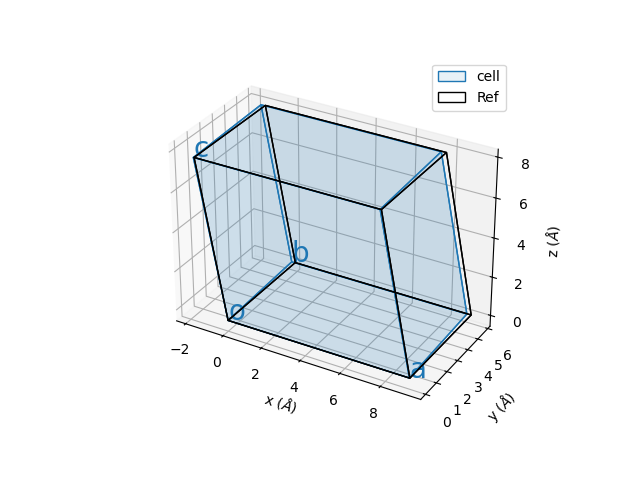
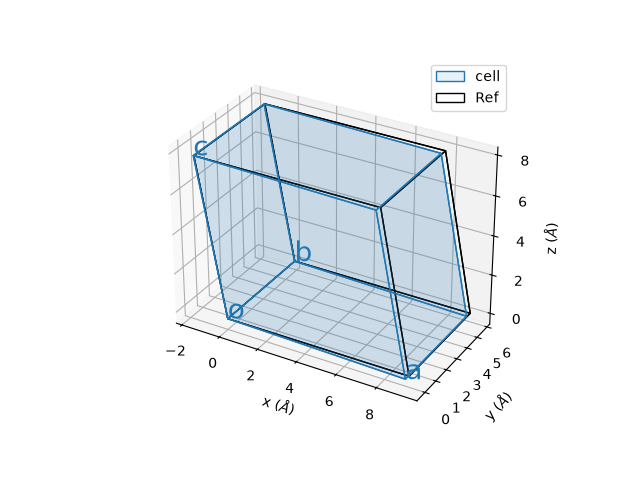
Document examples in detail and fix peak plot grid
- Add a key concepts section and detailed walkthroughs of examples 0-3 to README
- Regenerate example 1 and 2 figures from the current scripts
- Fix missing grid lines on wide peak plots with newer matplotlib (nbins=100)
- Fix "domian" typo in plot legends and regenerate affected figures

diff --git a/src/twinindex/domains.py b/src/twinindex/domains.py
@@ -87,7 +87,7 @@ class Domains(object):
         self.domains_list.append(cell_twin)
 
     def plot_domains(self):
-        """Plot refence cell and all domians"""
+        """Plot reference cell and all domains"""
 
         fig = plt.figure()
         ax = fig.add_subplot(111, projection="3d")
@@ -141,7 +141,7 @@ class Domains(object):
         def find_max(nested_list):
             max_num = 0
             for l in nested_list:
-                for i in range(len(l)):  # number of dlmains
+                for i in range(len(l)):  # number of domains
                     if len(l[i]):
                         max_num = np.max([max_num, np.rint(np.max(np.abs(l[i])))])
             return int(max_num)
@@ -202,10 +202,11 @@ class Domains(object):
         x_unit, y_unit, recip_angle, title, xlab, ylab = plot_params
 
         fig = plt.figure()
+        # large nbins keeps a grid line at every integer r.l.u. for wide plot ranges
         grid_helper = GridHelperCurveLinear(
             (tr, inv_tr),
-            grid_locator1=MaxNLocator(integer=True, steps=[1]),
-            grid_locator2=MaxNLocator(integer=True, steps=[1]),
+            grid_locator1=MaxNLocator(nbins=100, integer=True, steps=[1]),
+            grid_locator2=MaxNLocator(nbins=100, integer=True, steps=[1]),
         )
         ax_askew = Subplot(fig, 1, 1, 1, grid_helper=grid_helper)
         fig.add_subplot(ax_askew)
@@ -221,21 +222,21 @@ class Domains(object):
                 s = ax_askew.scatter(
                     *tr(xs_conv[i], ys_conv[i]),
                     marker="o",
-                    label=f"domian_{i+1}",
+                    label=f"domain_{i+1}",
                     c=f"C{i}",
                     alpha=marker_alpha,
                 )
                 s_up = ax_askew.scatter(
                     *tr(xs_conv_up[i], ys_conv_up[i]),
                     marker="^",
-                    label=f"domian_{i+1}",
+                    label=f"domain_{i+1}",
                     c=f"C{i}",
                     alpha=marker_alpha,
                 )
                 s_down = ax_askew.scatter(
                     *tr(xs_conv_down[i], ys_conv_down[i]),
                     marker="v",
-                    label=f"domian_{i+1}",
+                    label=f"domain_{i+1}",
                     c=f"C{i}",
                     alpha=marker_alpha,
                 )
@@ -259,21 +260,21 @@ class Domains(object):
                 s = ax_askew.scatter(
                     *tr(xs[i], ys[i]),
                     marker="o",
-                    label=f"domian_{i+1}",
+                    label=f"domain_{i+1}",
                     c=f"C{i}",
                     alpha=marker_alpha,
                 )
                 s_up = ax_askew.scatter(
                     *tr(xs_up[i], ys_up[i]),
                     marker="^",
-                    label=f"domian_{i+1}",
+                    label=f"domain_{i+1}",
                     c=f"C{i}",
                     alpha=marker_alpha,
                 )
                 s_down = ax_askew.scatter(
                     *tr(xs_down[i], ys_down[i]),
                     marker="v",
-                    label=f"domian_{i+1}",
+                    label=f"domain_{i+1}",
                     c=f"C{i}",
                     alpha=marker_alpha,
                 )

diff --git a/src/twinindex/cell.py b/src/twinindex/cell.py
@@ -730,10 +730,11 @@ class Cell(object):
         x_unit, y_unit, recip_angle, title, xlab, ylab = plot_params
 
         fig = plt.figure()
+        # large nbins keeps a grid line at every integer r.l.u. for wide plot ranges
         grid_helper = GridHelperCurveLinear(
             (tr, inv_tr),
-            grid_locator1=MaxNLocator(integer=True, steps=[1]),
-            grid_locator2=MaxNLocator(integer=True, steps=[1]),
+            grid_locator1=MaxNLocator(nbins=100, integer=True, steps=[1]),
+            grid_locator2=MaxNLocator(nbins=100, integer=True, steps=[1]),
         )
         ax_askew = Subplot(fig, 1, 1, 1, grid_helper=grid_helper)
         fig.add_subplot(ax_askew)

diff --git a/README.md b/README.md
@@ -32,9 +32,43 @@ plt.show()
 
 Run your own script with `pixi run python your_script.py`, or activate the environment with `pixi shell`.
 
+## Key concepts
+
+**Cell.** `Cell(spgr, lattice_params)` builds a unit cell from a space group symbol (e.g. `"P21/c"`, `"I4/mmm"`) and its lattice parameters, in Å and degrees. Only the free parameters of the crystal system are needed, though all six are also accepted:
+
+| Crystal system | `lattice_params` |
+|---|---|
+| Cubic | `(a,)` |
+| Tetragonal, Hexagonal | `(a, c)` |
+| Orthorhombic | `(a, b, c)` |
+| Monoclinic | `(a, b, c, beta)` |
+| Triclinic | `(a, b, c, alpha, beta, gamma)` |
+
+**Symbolic variables.** Every new cell gets its own symbols, numbered in order of creation: the first cell has `a₁, b₁, c₁, β₁`, the second `a₂, b₂, …`. Results such as rotation angles and index conversion matrices can be printed as formulas in these symbols, and every number shown is obtained by substituting the lattice parameters. For monoclinic and triclinic cells, an angle given as an integer (e.g. `90`) is treated as exact and fixed. An angle given as a float (e.g. `90.0` or `101.00`) becomes a symbol.
+
+**Orientation.** A new cell is placed with **a** along x, **b** in the xy-plane and **c** completing the cell. `cell.rotate_cell(rot_angles, rot_axes)` rotates it counter-clockwise, in degrees, about one or more axes in turn; rotations accumulate across calls. Angles can be numbers or sympy expressions in the cell symbols. Axes can be Cartesian vectors such as `[0, 0, 1]` or lattice vectors such as `cell.a_vec`. Setting `cell.origin` only moves where the cell is drawn.
+
+**Reference cell.** `cell.make_as_reference(cell_ref)` chooses the cell whose reciprocal lattice defines the (H, K, L) axes of the peak plots. TwinIndex computes the matrix *P* that converts Miller indices of `cell` into reciprocal lattice units (r.l.u.) of `cell_ref`, *P* = (**a**\*<sub>ref</sub> **b**\*<sub>ref</sub> **c**\*<sub>ref</sub>)<sup>−1</sup> (**a**\* **b**\* **c**\*), and prints it. With `SYMBOL=True` it also prints *P* as a formula. Use this to compare a distorted (low-symmetry) cell with the undistorted (high-symmetry) one.
+
+**Twin domains.** `Domains(cell)` starts a list of domains with `cell` as domain 1. Each new domain is a copy of that cell, rotated by any rotations already applied to it, plus one of:
+
+- `make_twin_rotation(rot_angles, rot_axes)`: further rotations, in degrees, about the given axes.
+- `make_twin_mirror(plane=[h, k, l])`: mirroring across the (h k l) plane. This is done as a 180° rotation about the plane normal, which gives the same Bragg peak positions as a true mirror (they differ only by an inversion).
+
+`origin=[h, k, l]` moves where the new domain is drawn to h**a** + k**b** + l**c**, so the domains don't overlap in the 3D plot. The domains are compared in the frame of the original cell's reference cell or, if it has none, in the frame of domain 1.
+
+**Peak plots.** `plot_peaks(projection, del_Q, d_min)` draws the Bragg peaks in one reciprocal-lattice plane:
+
+- `projection` names the plane: the two letters are the in-plane axes and the number fixes the third index. For example, `"H,K,0"` is the L = 0 plane and `"H,-1,L"` is the K = −1 plane.
+- `del_Q` is the slab half-thickness, in r.l.u. of the third index. ● marks a peak exactly in the plane, ▲ one up to `del_Q` above it and ▼ one up to `del_Q` below it. A distorted cell or twin domain often puts peaks slightly off the plane of the reference cell, so a ▲ or ▼ shows that distortion.
+- `d_min` is the smallest d-spacing, in Å, of the peaks generated. Peaks are generated with [cctbx](https://cci.lbl.gov/docs/cctbx/), so peaks forbidden by the space group's systematic absences are left out.
+- Peaks of the reference cell are drawn as black rings ◯. The grid is skewed to follow the true angle between the two reciprocal axes, so a peak sits at its real position in the plane.
+
+`plot_cell()` and `plot_domains()` draw the unit cells in 3D. The reference cell, when one is set, is drawn as a black outline.
+
 ## Tutorials
 
-The tutorials are in [examples/](examples/), and each can be run as a pixi task:
+The tutorials are in [examples/](examples/). Each can be run as a pixi task, which prints the steps and matrices to the terminal and opens the figures:
 
 ```
 pixi run cell-definition    # examples/0_cell_definition.py
@@ -42,6 +76,101 @@ pixi run cell-distortion    # examples/1_cell_distortion.py
 pixi run twin-domains       # examples/2_twin_domains.py
 pixi run cafe2as2           # examples/3_distortion_and_domains_in_CaFe2As2.py
 ```
+
+### Example 0: defining and orienting a cell
+
+[0_cell_definition.py](examples/0_cell_definition.py) shows the basic `Cell` operations on a monoclinic P2<sub>1</sub>/c cell (a = 9.185 Å, b = 5.8294 Å, c = 7.9552 Å, β = 100.79°):
+
+1. Create the cell and draw it in its default orientation.
+2. Rotate it by 90° about **a**.
+3. Rotate it by 90° about **a**, then by 90° about **b**. These rotations add to the first one. The axes are read from `cell.a_vec` and `cell.b_vec` at the time of the call, so they are the already-rotated lattice vectors.
+4. Set `cell.origin = -cell.c_vec` to draw the cell shifted by −**c**.
+5. Create a second, triclinic P-1 cell. It is cell #2, so its symbols are `a₂, b₂, …`.
+
+### Example 1: a cell distortion
+
+[1_cell_distortion.py](examples/1_cell_distortion.py) simulates a monoclinic-to-triclinic transition: a high-temperature P2<sub>1</sub>/c cell (#1) distorts on cooling into a low-temperature P-1 cell (#2) with a = 9.1614 Å, b = 5.8075 Å, c = 7.9584 Å, α = 90°, β = 101.00°, γ = 91.76°. The script answers the question: where do the low-temperature peaks appear, in the indices of the high-temperature cell?
+
+1. **Create both cells.** α is given as the integer `90`, so it stays exactly 90°. β and γ are floats, so they become the symbols β₂ and γ₂.
+2. **Align the cells.** In the default orientation, the triclinic **b** is γ₂ = 91.76° from x, while the monoclinic **b** is along y. Rotating cell #2 by θ₁ = 90° − γ₂ (written symbolically as `-cell_lT.symbol_vars[5] / sp.pi * 180 + 90`) about z puts both **b** axes along y. That is −1.76° here. The commented-out lines show how to add a second rotation that aligns **c** as well.
+3. **Choose the reference.** `cell_lT.make_as_reference(cell_hT, SYMBOL=True)` prints the conversion matrix *P*, first as a formula in a₁, b₁, c₁, β₁, a₂, b₂, c₂, β₂, γ₂ and then as numbers:
+
+   ```
+   [[1.003 0.049 0.   ]
+    [0.    1.004 0.   ]
+    [0.003 0.    1.   ]]
+   ```
+
+   For example, the triclinic (0, 1, 0) peak appears at (0.049, 1.004, 0) in monoclinic r.l.u. The formula shows which lattice parameters control each shift: the 0.049 comes from γ₂ deviating from 90°.
+4. **Draw the cells.** The triclinic cell (blue) closely overlaps the monoclinic reference (black outline).
+
+   ![1_1](docs/images/1_1_cell.png)
+
+5. **Plot the peaks** in three planes, in monoclinic r.l.u.:
+
+   ![1_2](docs/images/1_2_H-1L_peaks.png)
+   ![1_3](docs/images/1_3_HK0_peaks.png)
+   ![1_4](docs/images/1_4_0KL_peaks.png)
+
+   Peaks with a black ring exist in both phases. Their small offsets from the ring, and the ▲ ▼ markers, come from the distortion. Blue peaks with no ring are reflections forbidden in P2<sub>1</sub>/c but allowed in P-1, so they only appear in the low-temperature phase. In the (0, K, L) plane, for example:
+   - (0, 0, L) with L odd appears; P2<sub>1</sub>/c forbids it because of the c-glide.
+   - (0, K, 0) with K odd appears as ▲ (K > 0) and ▼ (K < 0). P2<sub>1</sub>/c forbids it because of the 2<sub>1</sub> screw axis, and *P* moves these peaks to H = 0.049K, just off the H = 0 plane.
+
+   New peaks like these are the signature to look for in an experiment.
+
+### Example 2: twin domains
+
+[2_twin_domains.py](examples/2_twin_domains.py) shows what a diffraction pattern looks like when a monoclinic P2<sub>1</sub>/c crystal grows as twins. Domain 1 is the cell itself. Two twins are added by mirroring:
+
+```python
+domains.make_twin_mirror(plane=[1, 0, 0], origin=[-1, -1, -1])  # domain 2: mirror across (1 0 0)
+domains.make_twin_mirror(plane=[0, 0, 1], origin=[-1, -1, -1])  # domain 3: mirror across (0 0 1)
+```
+
+The commented-out lines show the alternative: building twins with `make_twin_rotation`, for example by a 180° rotation about **c** or **a**. `origin=[-1, -1, -1]` only moves where each twin is drawn.
+
+No reference cell is set, so domain 1 is the reference: all indices are in r.l.u. of domain 1, and the original cell is drawn without a black outline.
+
+![2_1](docs/images/2_1_domains.png)
+
+The peaks of all domains in the three planes:
+
+![2_2](docs/images/2_2_H0L_peaks.png)
+![2_3](docs/images/2_3_HK0_peaks.png)
+![2_4](docs/images/2_4_0KL_peaks.png)
+
+Where markers of different colours overlap, the domains contribute to the same peak and can't be told apart there. The (H, 0, L) plane contains the monoclinic angle β, so this is where the twins separate:
+
+- Domains 1 (blue) and 2 (orange) share the L = 0 row. On the other even-L rows, domain 2 is shifted in H relative to domain 1.
+- Domain 3 (green) lies on a lattice rotated within the a–c plane, so most of its peaks fall between the rows of the other two.
+
+The (H, K, 0) and (0, K, L) planes do not contain β, and most peaks of the different domains coincide there. To tell twins apart in an experiment, measure in the plane that contains the angle that differs between them.
+
+### Example 3: distortion and domains in CaFe<sub>2</sub>As<sub>2</sub>
+
+[3_distortion_and_domains_in_CaFe2As2.py](examples/3_distortion_and_domains_in_CaFe2As2.py) combines a distortion with twinning: the tetragonal-to-orthorhombic transition of CaFe<sub>2</sub>As<sub>2</sub>.
+
+1. The high-temperature cell is tetragonal I4/mmm with a = 3.879 Å, c = 11.74 Å.
+2. The low-temperature cell is orthorhombic Fmmm, rotated 45° in the ab-plane relative to the tetragonal cell, with a<sub>O</sub> ≈ b<sub>O</sub> ≈ √2·a<sub>T</sub>. The measured parameters are in a comment. The script uses an exaggerated distortion (a<sub>O</sub> = 1.05·√2·a<sub>T</sub>, b<sub>O</sub> = 0.95·√2·a<sub>T</sub>) so the peak splitting is easy to see.
+3. θ = atan(a<sub>O</sub>/b<sub>O</sub>) is written in the orthorhombic symbols. Rotating the orthorhombic cell by −θ about z puts its (1 1 0) reflection on the tetragonal (0, K, 0) axis, so the orthorhombic axes run roughly along the tetragonal diagonals. The tetragonal cell is then made the reference. The printed conversion matrix confirms this: orthorhombic (1, 1, 0) becomes (0, 1.004, 0) in tetragonal r.l.u.
+4. Four domains are made:
+   - the original cell;
+   - a mirror twin across (1 1 0), the twin plane in this material;
+   - two more domains rotated about **c** by 2θ − 90° and by 90°.
+
+   Twins made with `make_twin_rotation` include the rotation already applied to the original cell, so these angles are relative to its starting orientation.
+5. The peaks are plotted in the (H, K, 0) plane of the tetragonal cell, with `d_min=0.7`.
+
+![3_1](docs/images/3_1_domains.png)
+![3_2](docs/images/3_2_peaks.png)
+
+Each tetragonal peak (black ring) splits into up to four peaks, one from each domain. This splitting is how the orthorhombic distortion and its twinning show up in a measurement.
+
+Output of tutorial 3.
+![3_3](docs/images/3_3_terminal.png)
+
+Compare with the measured splitting in PHYSICAL REVIEW B 79, 180508(R) (2009):
+![3_4](docs/images/3_4_PRB.png)
 
 ## Project layout
 
@@ -51,17 +180,3 @@ examples/         tutorial scripts
 tests/            test suite, run with `pixi run test`
 docs/images/      figures used in this README
 ```
-
-## Example
-
-Tutorial 3 gives an example of in the case of CaFe2As2
-
-![3_1](docs/images/3_1_domains.png)
-![3_2](docs/images/3_2_peaks.png)
-
-Output of tutorial 3.
-![3_3](docs/images/3_3_terminal.png)
-
-PHYSICAL REVIEW B 79, 180508(R) (2009)
-![3_4](docs/images/3_4_PRB.png)
-
